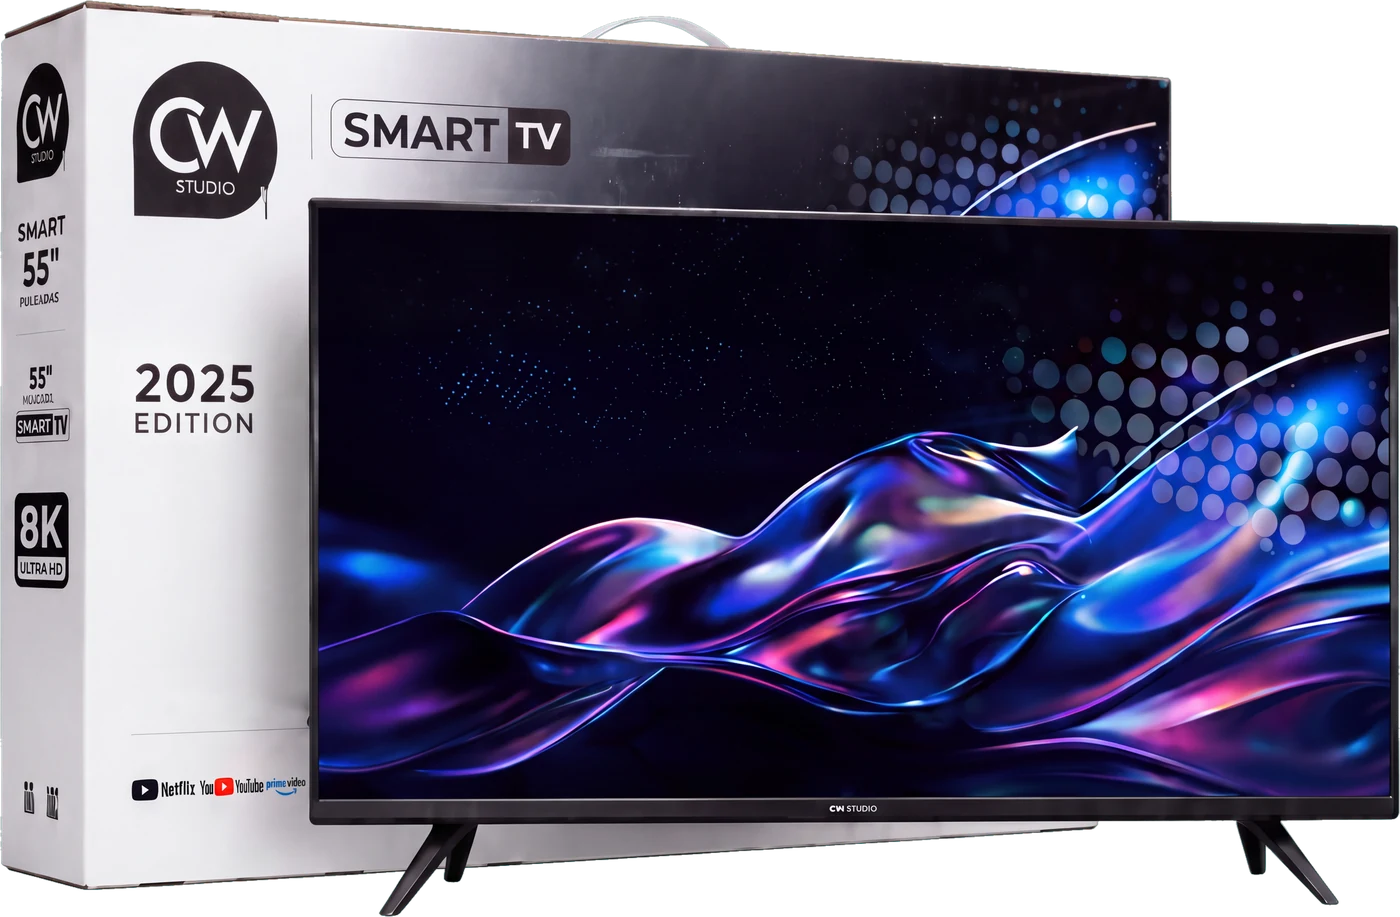
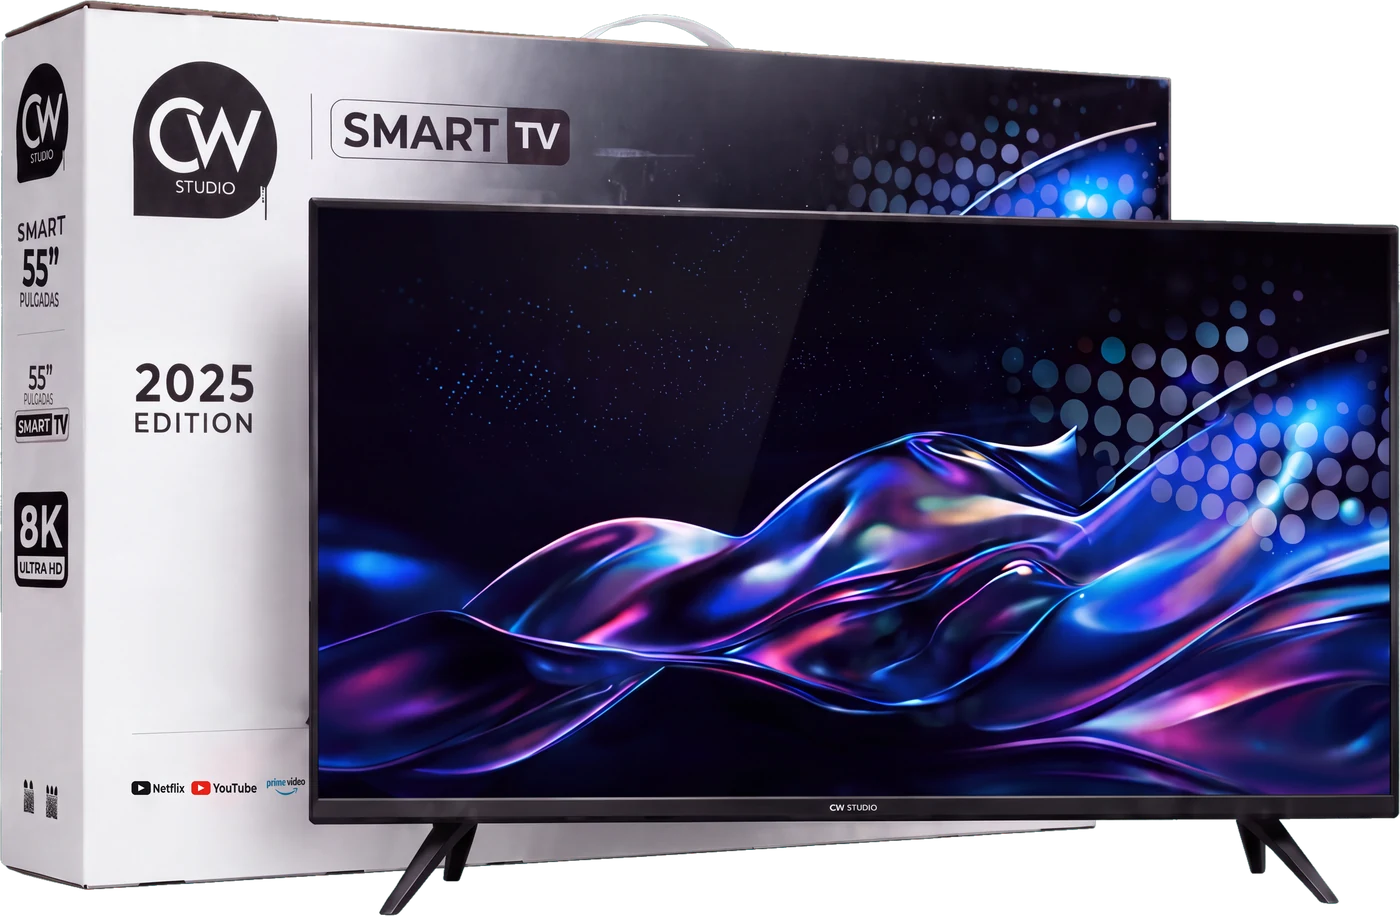
TV: fotos pulidas, una base para los 5 tamaños y textos de la caja corregidos (sin publicar)
Claude-Session: https://claude.ai/code/session_01XsqePqNsr899Mjtsv3s8DJ

diff --git a/docs/bitacora/2026-09-26-2034-claude.md b/docs/bitacora/2026-09-26-2034-claude.md
@@ -1,0 +1,24 @@
+# Fotos de los TV pulidas: caja con textos corregidos y los 5 tamaños iguales (sin publicar)
+
+**Pedido del dueño:** «Los televisores aún tienen desperfecto… que no se vean deformadas… que se vean bien como las demás imágenes». Se le mostró una alternativa sin caja; eligió **con caja** («La izquierda»).
+
+## Defectos que tenía la versión 59.57
+- Cada tamaño se generó por separado, así que la caja y el TV tenían proporciones distintas. El 32" se veía deformado.
+- Los textos pequeños de la caja estaban mal escritos por la IA: «PULDABAS», «FAKCADAS», «PULEADAS», «33"», líneas ilegibles, «NotFlix» y «Youlube».
+
+## Solución
+- **Una sola imagen base para los 5 tamaños:** el render de 50" con fondo verde (Nano Banana Pro, 4K). Solo cambian los números. Así los 5 son idénticos en proporción, luz y encuadre.
+- **Retoque con código** (`retoque.py`, en el scratchpad): se borra cada texto defectuoso con `cv2.inpaint` (TELEA) y se reescribe con **Montserrat** (Google Fonts, OFL), ajustada al recuadro original para respetar la perspectiva del costado.
+  - Costado: «SMART / NN" / PULGADAS» y, debajo, «NN" / PULGADAS».
+  - Franja de plataformas: se redibujó entera (ícono ▶ + «Netflix» e ícono rojo ▶ + «YouTube»). «prime video» se dejó igual.
+- **Recorte:** `chroma.py`, igual que antes, con bordes limpios.
+
+## Archivos
+`img/tienda/hd/tv-32|43|50|55|65.webp` (1400×916), con los mismos nombres. La tienda y el catálogo mayorista los usan sin cambios de código.
+
+## Pruebas
+- Revisión a tamaño completo de los 5, con zoom al costado, al número pequeño y a la franja.
+- Tarjeta del catálogo mayorista y de la tienda en Playwright a 390 px: al elegir 50", la tienda muestra `hd/tv-50.webp` y no hay errores.
+
+## Estado
+Commit en la rama `claude/fix-dock-breakpoint-860`. **No publicado.**
